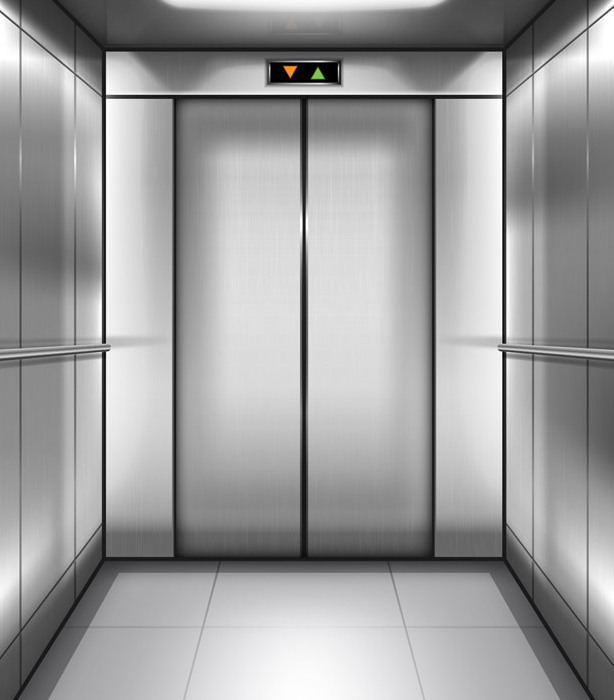
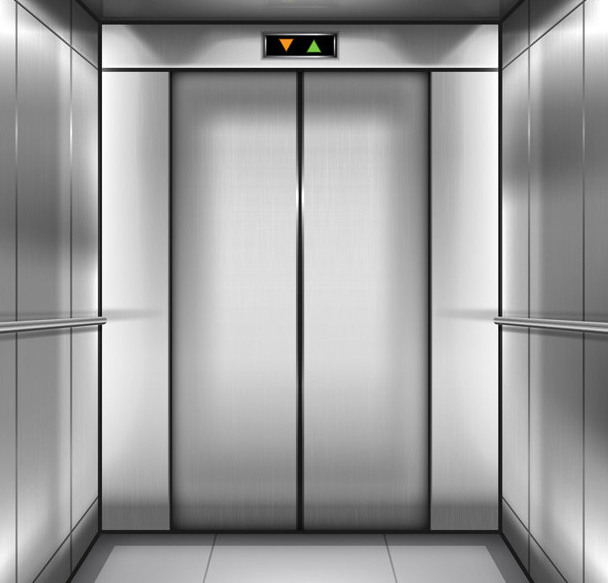
fix background

diff --git a/GUI.py b/GUI.py
@@ -34,7 +34,7 @@ class MainWindow(QMainWindow, QWidget):
             font.setPointSize(16)
             self.elev1.append(QPushButton(self))
             self.elev1[i].setFont(font)
-            self.elev1[i].setGeometry(270, 517 - 30 * i, 60, 30)
+            self.elev1[i].setGeometry(270, 520 - 30 * i, 60, 30)
             self.elev1[i].setText(str(i))
             self.elev1[i].setStyleSheet(
                 "color: black;background-color : lightgray ;border-radius : 50;border : 1px solid darkgray"
@@ -47,7 +47,7 @@ class MainWindow(QMainWindow, QWidget):
             font.setPointSize(16)
             self.elev2.append(QPushButton(self))
             self.elev2[i].setFont(font)
-            self.elev2[i].setGeometry(360, 517 - 30 * i, 60, 30)
+            self.elev2[i].setGeometry(360, 520 - 30 * i, 60, 30)
             self.elev2[i].setText(str(i))
             self.elev2[i].setStyleSheet(
                 "color: black;background-color : lightgray ;border-radius : 50;border : 1px solid darkgray"
@@ -60,7 +60,7 @@ class MainWindow(QMainWindow, QWidget):
             font.setPointSize(16)
             self.elev3.append(QPushButton(self))
             self.elev3[i].setFont(font)
-            self.elev3[i].setGeometry(450, 517 - 30 * i, 60, 30)
+            self.elev3[i].setGeometry(450, 520 - 30 * i, 60, 30)
             self.elev3[i].setText(str(i))
             self.elev3[i].setStyleSheet(
                 "color: black;background-color : lightgray ;border-radius : 50;border : 1px solid darkgray "
@@ -95,9 +95,9 @@ class MainWindow(QMainWindow, QWidget):
                 "color: black;border-radius : 20;border : 2px solid black;background-color : black"
             )
             if j == 0:
-                self.Btn2.append(QPushButton("⏸", self))
+                self.Btn2.append(QPushButton(" ⏸ ", self))
             if j == 1:
-                self.Btn2.append(QPushButton("⏴", self))
+                self.Btn2.append(QPushButton(" ⏴ ", self))
             font.setPointSize(18)
             self.Btn2[j].setFont(font)
             self.Btn2[j].setGeometry(168, 275 + 50 * j, 28, 28)

diff --git a/main.py b/main.py
@@ -24,7 +24,7 @@ def move():
 
 stylesheet = """
     MainWindow {
-        border-image: url("elev1.jpg"); 
+        border-image: url("elev2.jpg"); 
         background-repeat: no-repeat; 
         background-position: center;
         
